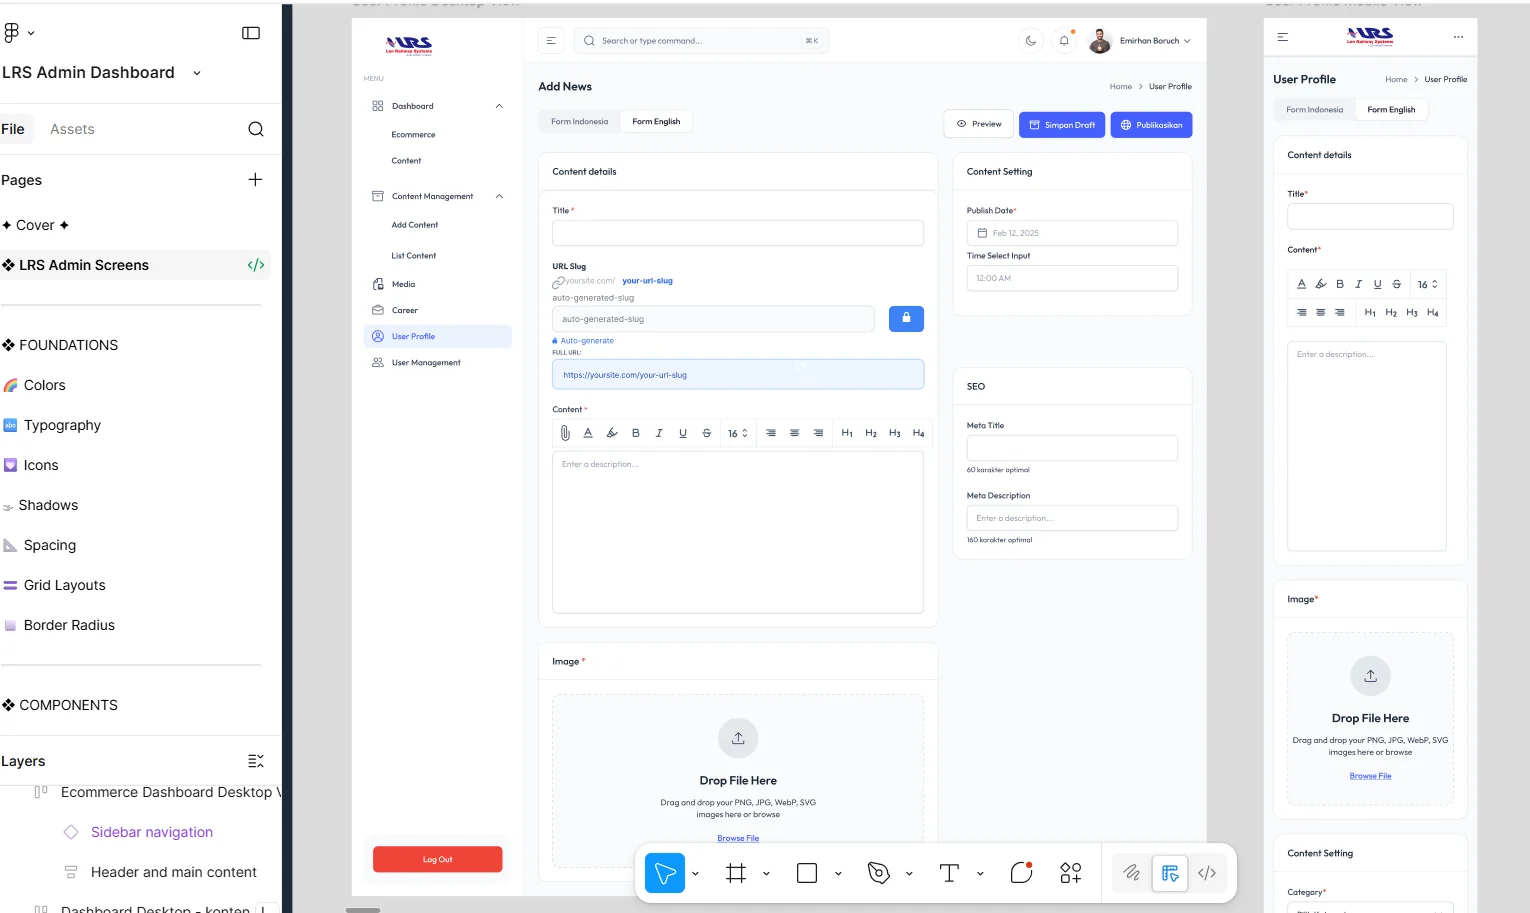
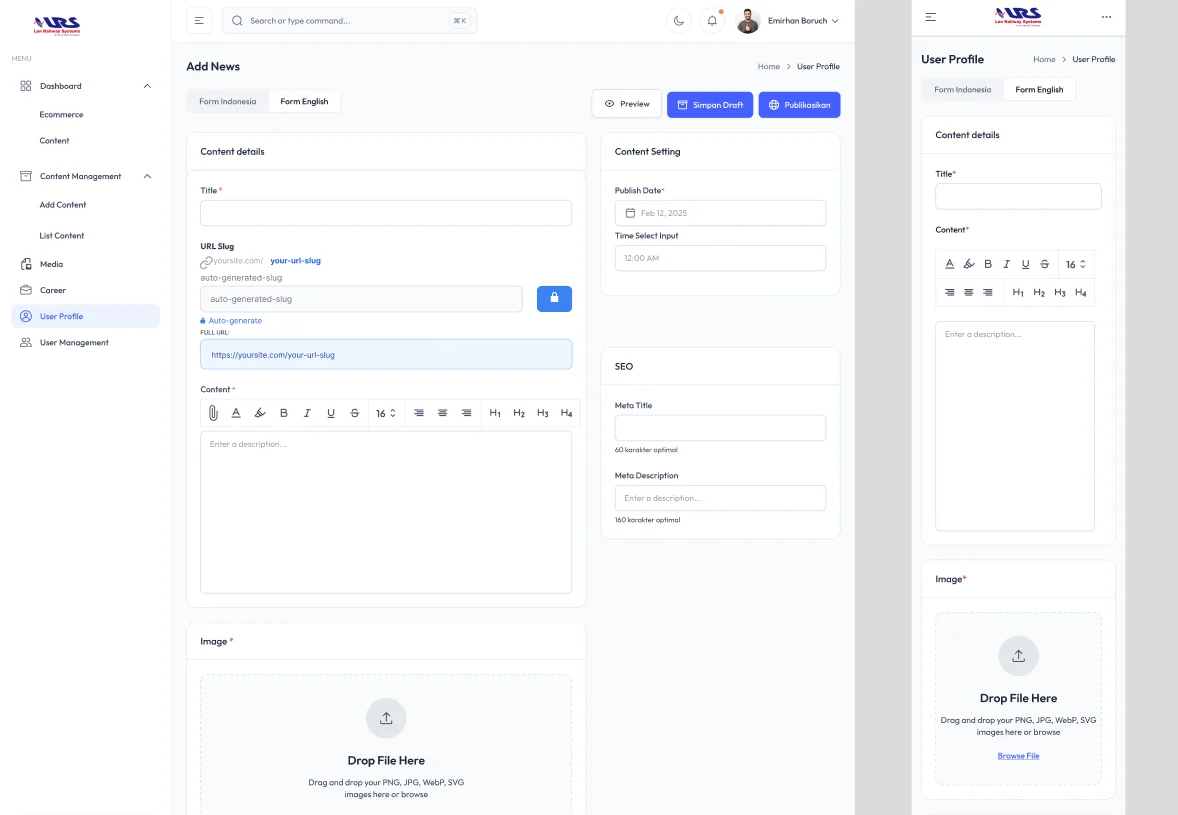
Perbaiki gambar dan deskripsi proyek
- LRS Admin Dashboard: deskripsi diganti jadi panel admin konten website perusahaan
- Mockup LRS dan SiJagung dipotong tanpa panel Figma
- Kartu SiJagung memakai potongan peta sebaran
- Screenshot login jadi deretan thumbnail berketerangan
- Kalimat system analyst dan GIS dipisah supaya jelas

diff --git a/index.html b/index.html
@@ -127,8 +127,11 @@
     }
     .gallery { display: grid; gap: 12px; }
     .gallery .main img { aspect-ratio: 16 / 10; object-fit: cover; object-position: top left; width: 100%; }
-    .thumbs { display: grid; grid-template-columns: repeat(2, 1fr); gap: 12px; }
+    .thumbs { display: grid; grid-template-columns: repeat(3, 1fr); gap: 12px; }
+    .thumb { margin: 0; }
+    .thumb .shot { box-shadow: 0 1px 2px rgba(23, 32, 51, .06); }
     .thumbs img { aspect-ratio: 16 / 10; object-fit: cover; object-position: top left; width: 100%; }
+    .thumb figcaption { margin-top: 6px; font-size: .82rem; color: var(--muted); }
     .gallery-note { font-size: .82rem; color: var(--muted); }
 
     /* Studi kasus */
@@ -264,7 +267,8 @@
           </div>
           <h1>Fauza Nurhakim Ar Rafei</h1>
           <div class="seam" aria-hidden="true"></div>
-          <p class="lead">Saya membangun aplikasi internal untuk pabrik tas PT Blue Rose Narado: sistem ERP, perhitungan costing, pengolahan order produksi, sampai pemantauan output tiap line. Latar belakang saya analisis sistem dan GIS, jadi saya terbiasa mulai dari kebutuhan user sebelum menulis kode.</p>
+          <p class="lead">Saya membangun aplikasi internal untuk pabrik tas PT Blue Rose Narado: sistem ERP, perhitungan costing, pengolahan order produksi, sampai pemantauan output tiap line.</p>
+          <p class="lead" style="margin-top:14px">Sebelumnya saya bekerja sebagai system analyst, jadi saya terbiasa menggali kebutuhan user dan menuangkannya ke SRS, ERD dan rancangan tampilan sebelum mulai coding. Saya juga punya latar belakang GIS, sehingga bisa mengolah data spasial dan peta saat aplikasi membutuhkannya.</p>
           <div class="actions">
             <a class="btn btn-primary" href="#proyek">Lihat proyek</a>
             <a class="btn btn-ghost" href="https://wa.me/6289699020721" target="_blank" rel="noopener">
@@ -315,7 +319,7 @@
           <div class="gallery">
             <div class="shot main"><button type="button" data-open="sims" data-index="0" aria-label="Perbesar dashboard SIMS"><img src="assets/img/sims-dashboard.webp" alt="Dashboard SIMS" loading="lazy" width="1600" height="1000"></button></div>
             <div class="thumbs">
-              <div class="shot"><button type="button" data-open="sims" data-index="1" aria-label="Perbesar halaman login SIMS"><img src="assets/img/sims-login.webp" alt="Halaman login SIMS" loading="lazy" width="1600" height="1000"></button></div>
+              <figure class="thumb"><div class="shot"><button type="button" data-open="sims" data-index="1" aria-label="Perbesar halaman login SIMS"><img src="assets/img/sims-login.webp" alt="Halaman login SIMS" loading="lazy" width="1600" height="1000"></button></div><figcaption>Halaman login</figcaption></figure>
             </div>
           </div>
         </article>
@@ -338,7 +342,7 @@
           <div class="gallery">
             <div class="shot main"><button type="button" data-open="costing" data-index="0" aria-label="Perbesar dashboard CostingBOM"><img src="assets/img/costing-dashboard.webp" alt="Dashboard CostingBOM" loading="lazy" width="1600" height="1372"></button></div>
             <div class="thumbs">
-              <div class="shot"><button type="button" data-open="costing" data-index="1" aria-label="Perbesar halaman login CostingBOM"><img src="assets/img/costing-login.webp" alt="Halaman login CostingBOM" loading="lazy" width="1600" height="1000"></button></div>
+              <figure class="thumb"><div class="shot"><button type="button" data-open="costing" data-index="1" aria-label="Perbesar halaman login CostingBOM"><img src="assets/img/costing-login.webp" alt="Halaman login CostingBOM" loading="lazy" width="1600" height="1000"></button></div><figcaption>Halaman login</figcaption></figure>
             </div>
           </div>
         </article>
@@ -361,7 +365,7 @@
           <div class="gallery">
             <div class="shot main"><button type="button" data-open="md" data-index="0" aria-label="Perbesar dashboard MD Production"><img src="assets/img/md-dashboard.webp" alt="Dashboard MD Production" loading="lazy" width="1600" height="1031"></button></div>
             <div class="thumbs">
-              <div class="shot"><button type="button" data-open="md" data-index="1" aria-label="Perbesar halaman login MD Production"><img src="assets/img/md-login.webp" alt="Halaman login MD Production" loading="lazy" width="1600" height="1000"></button></div>
+              <figure class="thumb"><div class="shot"><button type="button" data-open="md" data-index="1" aria-label="Perbesar halaman login MD Production"><img src="assets/img/md-login.webp" alt="Halaman login MD Production" loading="lazy" width="1600" height="1000"></button></div><figcaption>Halaman login</figcaption></figure>
             </div>
           </div>
         </article>
@@ -384,8 +388,8 @@
           <div class="gallery">
             <div class="shot main"><button type="button" data-open="tracker" data-index="0" aria-label="Perbesar dashboard Production Tracker"><img src="assets/img/tracker-dashboard.webp" alt="Dashboard Production Tracker" loading="lazy" width="1600" height="1124"></button></div>
             <div class="thumbs">
-              <div class="shot"><button type="button" data-open="tracker" data-index="1" aria-label="Perbesar halaman login line"><img src="assets/img/tracker-login-line.webp" alt="Halaman login line Production Tracker" loading="lazy" width="1600" height="1000"></button></div>
-              <div class="shot"><button type="button" data-open="tracker" data-index="2" aria-label="Perbesar halaman PIN dashboard"><img src="assets/img/tracker-pin.webp" alt="Halaman PIN dashboard Production Tracker" loading="lazy" width="1600" height="1000"></button></div>
+              <figure class="thumb"><div class="shot"><button type="button" data-open="tracker" data-index="1" aria-label="Perbesar halaman login line"><img src="assets/img/tracker-login-line.webp" alt="Halaman login line Production Tracker" loading="lazy" width="1600" height="1000"></button></div><figcaption>Login per line</figcaption></figure>
+              <figure class="thumb"><div class="shot"><button type="button" data-open="tracker" data-index="2" aria-label="Perbesar halaman PIN dashboard"><img src="assets/img/tracker-pin.webp" alt="Halaman PIN dashboard Production Tracker" loading="lazy" width="1600" height="1000"></button></div><figcaption>PIN untuk dashboard</figcaption></figure>
             </div>
           </div>
         </article>
@@ -396,25 +400,25 @@
       <div class="wrap">
         <div class="head">
           <h2>Analisis sistem dan GIS</h2>
-          <p>Proyek sebelum PT Blue Rose Narado, saat saya lebih banyak bekerja di analisis kebutuhan, desain database dan pengolahan data spasial.</p>
+          <p>Sebelum di PT Blue Rose Narado, pekerjaan saya ada di dua bidang. Sebagai system analyst, saya menggali kebutuhan user lalu menuangkannya ke SRS, ERD dan mockup. Sebagai GIS analyst, saya mengolah data spasial menjadi peta.</p>
         </div>
         <div class="cases">
           <article class="case">
-            <div class="shot"><button type="button" data-open="lrs" data-index="0" aria-label="Perbesar mockup LRS Admin Dashboard"><img src="assets/img/lrs-mockup.webp" alt="Mockup LRS Admin Dashboard di Figma" loading="lazy" width="1530" height="913"></button></div>
+            <div class="shot"><button type="button" data-open="lrs" data-index="0" aria-label="Perbesar mockup LRS Admin Dashboard"><img src="assets/img/lrs-mockup.webp?v=2" alt="Mockup halaman tambah berita di LRS Admin Dashboard" loading="lazy" width="1178" height="815"></button></div>
             <div class="body">
               <h3>LRS Admin Dashboard</h3>
-              <p class="where">PT Len Railway Systems</p>
-              <p>Dashboard admin untuk monitoring persinyalan kereta api. Saya menyusun SRS, ERD, DFD dan spesifikasi API, lalu membuat mockup di Figma sebagai acuan tim developer.</p>
+              <p class="where">PT Len Railway Systems, analisis sistem</p>
+              <p>Panel admin untuk mengelola isi website perusahaan dalam dua bahasa: berita, artikel, galeri, banner dan lowongan kerja. Saya menyusun SRS, DFD dan spesifikasi API, merancang ERD termasuk role, hak akses dan log aktivitas, lalu membuat mockup di Figma sebagai acuan developer.</p>
               <p class="tags">Figma, Draw.io, PostgreSQL</p>
               <p class="more"><button type="button" data-open="lrs" data-index="1">Lihat ERD database</button></p>
             </div>
           </article>
           <article class="case">
-            <div class="shot"><button type="button" data-open="jagung" data-index="0" aria-label="Perbesar peta SiJagung"><img src="assets/img/jagung-peta.webp" alt="Peta sebaran produksi jagung" loading="lazy" width="1600" height="744"></button></div>
+            <div class="shot"><button type="button" data-open="jagung" data-index="0" aria-label="Perbesar peta SiJagung"><img src="assets/img/jagung-peta-card.webp" alt="Peta sebaran produksi jagung" loading="lazy" width="1310" height="496" style="object-position:center"></button></div>
             <div class="body">
               <h3>SiJagung</h3>
-              <p class="where">Sistem Informasi Jagung Nasional</p>
-              <p>Peta sebaran wilayah produksi jagung di Indonesia. Saya mengolah data spasial menjadi GeoJSON untuk peta web, dan mendesain form laporan untuk kelompok tani.</p>
+              <p class="where">Sistem Informasi Jagung Nasional, GIS dan analisis sistem</p>
+              <p>Aplikasi pemantauan produksi jagung per wilayah. Di sisi GIS, saya mengolah data spasial di QGIS, ArcGIS dan Google Earth Engine menjadi GeoJSON untuk peta sebaran. Di sisi analisis, saya menggali kebutuhan kelompok tani dan mendesain form laporannya di Figma.</p>
               <p class="tags">QGIS, ArcGIS, Google Earth Engine, Figma</p>
               <p class="more"><button type="button" data-open="jagung" data-index="1">Lihat mockup form</button></p>
             </div>
@@ -423,7 +427,7 @@
             <div class="shot"><button type="button" data-open="aset" data-index="0" aria-label="Perbesar flowchart manajemen aset"><img src="assets/img/aset-flowchart.webp" alt="Flowchart proses bisnis manajemen aset IT" loading="lazy" width="529" height="1377"></button></div>
             <div class="body">
               <h3>Manajemen Aset IT</h3>
-              <p class="where">Aplikasi internal perusahaan</p>
+              <p class="where">Aplikasi internal perusahaan, analisis sistem</p>
               <p>SRS dan rancangan proses bisnis To-Be untuk pengelolaan aset IT: data master, siklus hidup aset, audit berkala, sampai pelaporan.</p>
               <p class="tags">Visio, Figma, SRS</p>
             </div>
@@ -543,12 +547,12 @@
         ["assets/img/tracker-pin.webp", "Production Tracker, PIN dashboard"]
       ],
       lrs: [
-        ["assets/img/lrs-mockup.webp", "LRS Admin Dashboard, mockup Figma"],
+        ["assets/img/lrs-mockup.webp?v=2", "LRS Admin Dashboard, mockup halaman tambah berita (Figma)"],
         ["assets/img/lrs-erd.webp", "LRS Admin Dashboard, ERD database"]
       ],
       jagung: [
         ["assets/img/jagung-peta.webp", "SiJagung, peta sebaran produksi jagung"],
-        ["assets/img/jagung-mockup.webp", "SiJagung, mockup form laporan kelompok tani"]
+        ["assets/img/jagung-mockup.webp?v=2", "SiJagung, mockup form laporan kelompok tani (Figma)"]
       ],
       aset: [
         ["assets/img/aset-flowchart.webp", "Manajemen Aset IT, flowchart proses bisnis To-Be"]
